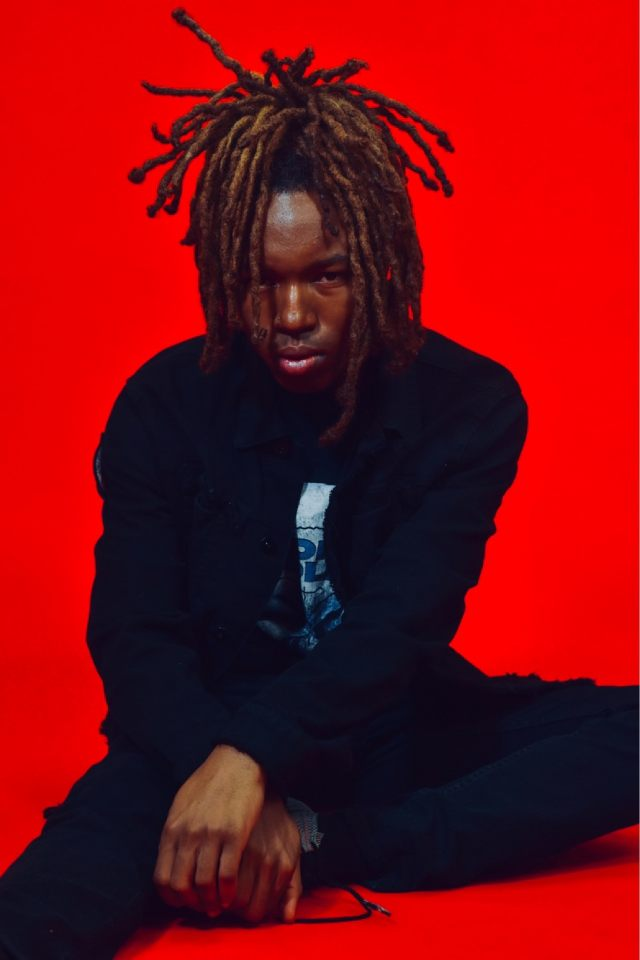
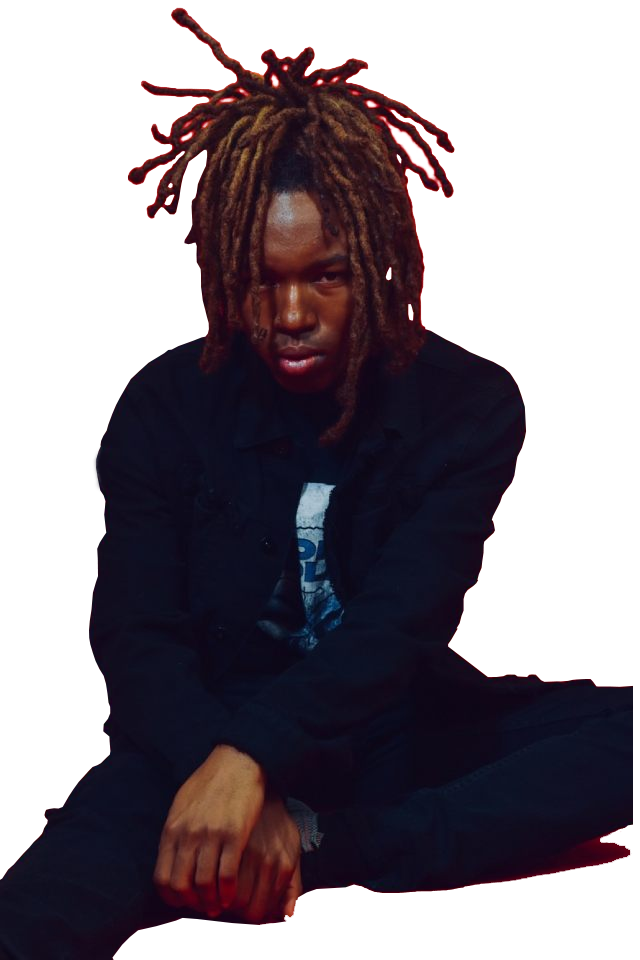
Mavi 2.0
- next step: make it responsive.

diff --git a/index.html b/index.html
@@ -14,8 +14,6 @@
     <meta property="og:image" content='./img/cover.JPG'>
     <meta property="og:url" content="https://navigate.one/">
 	<link href="css/index.css" rel="stylesheet" type="text/css">
-<!--     <link href="css/style.css" rel="stylesheet" type="text/css">
- -->	</script>
 </head>
 <body>
     <div class="background-text">
@@ -97,78 +95,75 @@
         <img src="./img/cover2.JPG">
     </footer>
 
-    <section class="tracklist">
-        <div class="view">
-        <li>ghost in the shell [prod dkarim]</li>
-        <li>wet corduroy [prod. nate]</li>
-        <li>bedrest [prod nephew hesh]</li>
-        <li>sense [prod. thebe]</li>
-        <li>coffee [prod. thomas]</li>
-        <li>valley [prod navy blue]</li>
-        <li>chiasma (pt 2) [prod ovrkast]</li>
-        <li>guernica [prod. nephewhesh]</li>
-        <li>firstkush [prod. MIKE]</li>
-        </div>
-        <div class="view">
-            <li class="right">
-                <audio controls>
-                  <source src="./sounds/ghost_in_the_shell.m4a" type="audio/mpeg">
-                  Your browser does not support the audio element.
-                </audio> 
-            </li>
-            <li class="right">
-                <audio controls>
-                  <source src="./sounds/maviuntitled.mp3" type="audio/mpeg">
-                  Your browser does not support the audio element.
-                </audio> 
-            </li>
-            <li class="right">
-                <audio controls>
-                  <source src="./sounds/bedrest.mp3" type="audio/mpeg">
-                  Your browser does not support the audio element.
-                </audio> 
-            </li>
-            <li class="right">
-                <audio controls>
-                  <source src="./sounds/sense.m4a" type="audio/mpeg">
-                  Your browser does not support the audio element.
-                </audio> 
-            </li>
-            <li class="right">
-                <audio controls>
-                  <source src="./sounds/coffee.wav" type="audio/mpeg">
-                  Your browser does not support the audio element.
-                </audio> 
-            </li>
-            <li class="right">
-                <audio controls>
-                  <source src="./sounds/bedrest.mp3" type="audio/mpeg">
-                  Your browser does not support the audio element.
-                </audio> 
-            </li>
-            <li class="right">
-                <audio controls>
-                  <source src="./sounds/chiasma_2.m4a" type="audio/mpeg">
-                  Your browser does not support the audio element.
-                </audio> 
-            </li>
-            <li class="right">
-                <audio controls>
-                  <source src="./sounds/guernica.m4a" type="audio/mpeg">
-                  Your browser does not support the audio element.
-                </audio> 
-            </li>
-            <li class="right">
-                <audio controls>
-                  <source src="./sounds/firstkush.wav" type="audio/mpeg">
-                  Your browser does not support the audio element.
-                </audio> 
-            </li>
-        </div>
-
+    <div class="view">
+        <li>ghost in the shell [prod dkarim]
+            <audio controls>
+              <source src="./sounds/ghost_in_the_shell.m4a" type="audio/mpeg">
+              Your browser does not support the audio element.
+            </audio>
+        </li>
+         
+        <li>wet corduroy [prod. nate]
+            <audio controls>
+              <source src="" type="audio/mpeg">
+              Your browser does not support the audio element.
+            </audio>
+        </li>
+         
+        <li>bedrest [prod nephew hesh]
+            <audio controls>
+            <source src="./sounds/bedrest.mp3" type="audio/mpeg">
+            Your browser does not support the audio element.
+            </audio>
+        </li>
+             
+        <li>sense [prod. thebe]
+            <audio controls>
+            <source src="./sounds/sense.m4a" type="audio/mpeg">
+            Your browser does not support the audio element.
+            </audio>
+        </li>
+             
+        <li>coffee [prod. thomas]
+            <audio controls>
+            <source src="./sounds/coffee.wav" type="audio/mpeg">
+            Your browser does not support the audio element.
+            </audio>
+        </li>
+            
+        <li>valley [prod navy blue]
+            <audio controls>
+            <source src="" type="audio/mpeg">
+            Your browser does not support the audio element.
+            </audio>
+        </li>
+            
+        <li>chiasma (pt 2) [prod ovrkast]
+            <audio controls>
+            <source src="./sounds/chiasma_2.m4a" type="audio/mpeg">
+            Your browser does not support the audio element.
+            </audio>
+        </li>
+            
+        <li>guernica [prod. nephewhesh]
+            <audio controls>
+            <source src="./sounds/guernica.m4a" type="audio/mpeg">
+            Your browser does not support the audio element.
+            </audio>
+        </li>
+            
+        <li>firstkush [prod. MIKE]
+            <audio controls>
+            <source src="./sounds/firstkush.wav" type="audio/mpeg">
+            Your browser does not support the audio element.
+            </audio>
+        </li>    
+    </div>
+    <section class='bottom-links'>
+        <a href="https://www.instagram.com/mavi4mayor/">instagram</a> |
+        <a href="https://soundcloud.com/mavi704">soundcloud</a> |
+        <a href="https://twitter.com/mavi4mayor">twitter</a>
     </section> 
-    <!-- <section>
-        <img src="./img/mavi.png">
-    </section> -->
-    </body>
+
+</body>
 </html>

diff --git a/css/index.css b/css/index.css
@@ -35,7 +35,7 @@ html, body {
   background: #ffb7b7; /* Gecko Browsers */
 }
 a {
-    color: #f9d35f;
+    color: #0f0e1b;
     text-decoration: none;
 }
 a:hover,
@@ -49,6 +49,7 @@ footer {
     margin-left: auto;
     margin-right: auto;
     max-width: 700px;
+    margin-bottom: 3em;
 }
 footer img{
     display: flex;
@@ -185,7 +186,7 @@ span{
     text-align: left;
 /*    color:#fea3a2*/
 }
-.view{
+/*.view{
     -ms-flex:50%;
     flex: 50%;
     height: 100%;
@@ -206,9 +207,53 @@ span{
     margin-left: 1em;
     margin-top: .53em;
 
+}*/
+
+.view {
+    display: flex;
+    justify-content: center;
+    flex-direction: column;
+    align-content: center;
+    background-image: url('../img/mavi2.png');
+    background-position: left; /* Center the image */
+    background-repeat: no-repeat;
+    background-size: contain;
+    margin: auto;
+    width: 70vw;
+
+}
+.view li {
+    font-family: 'GZA', sans-serif;
+    width: 56%;
+    justify-content: center;
+    list-style: none;
+    align-self: center;
+    color: #fea3a2;
+    font-size: 1.4em;
+    line-height: 3em;
+}
+.bottom-links {
+    position:relative;
+    text-align:center;
+    font-size:.8em;
+    background: #ffb9b4;
+    padding: 23px 0;
+    margin-top: 3em;
+  }
+.bottom-links li{
+    display: flex;
+    justify-content: center;
+    text-align: center;
 }
 audio {
   opacity: .3;
+  margin-top: 5px;
+  float: right !important;
+  display:flex;
+  justify-content: flex-start;
+
+
+
 }
 audio::-webkit-media-controls-panel{
   background: #ff9294ba;
